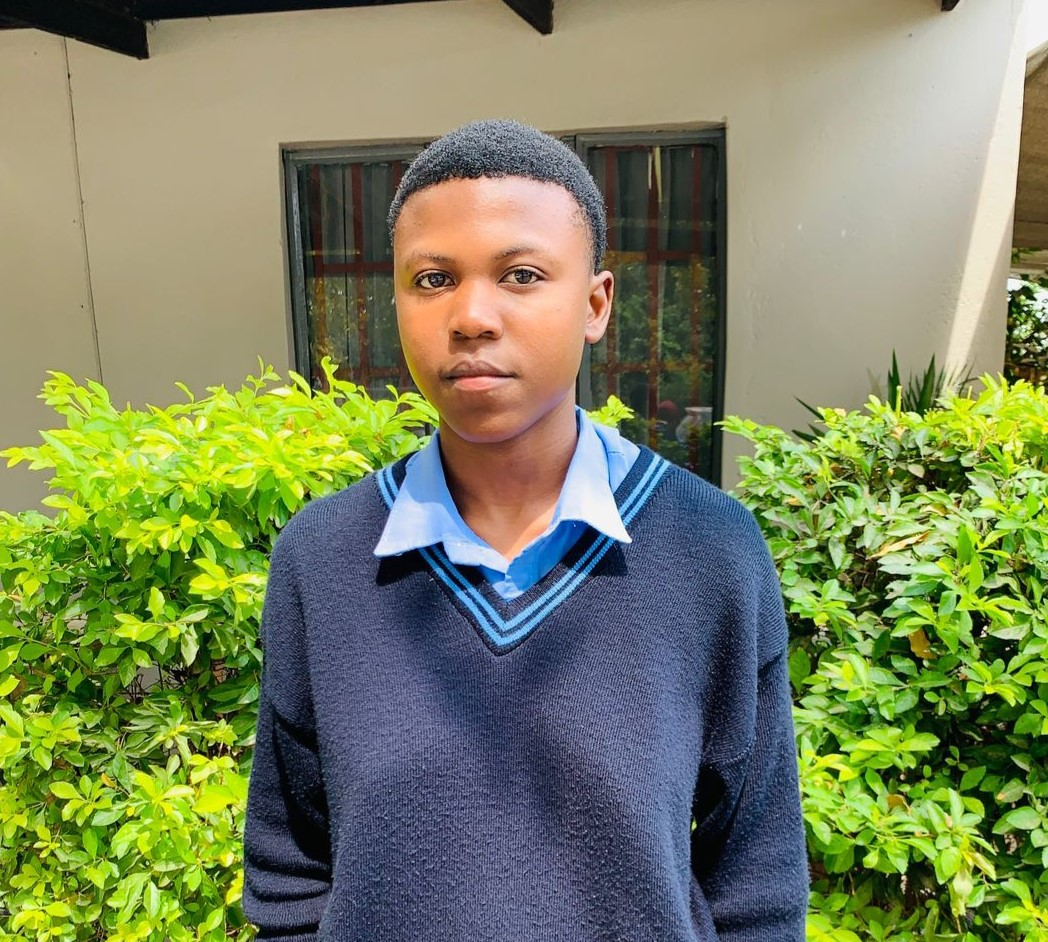
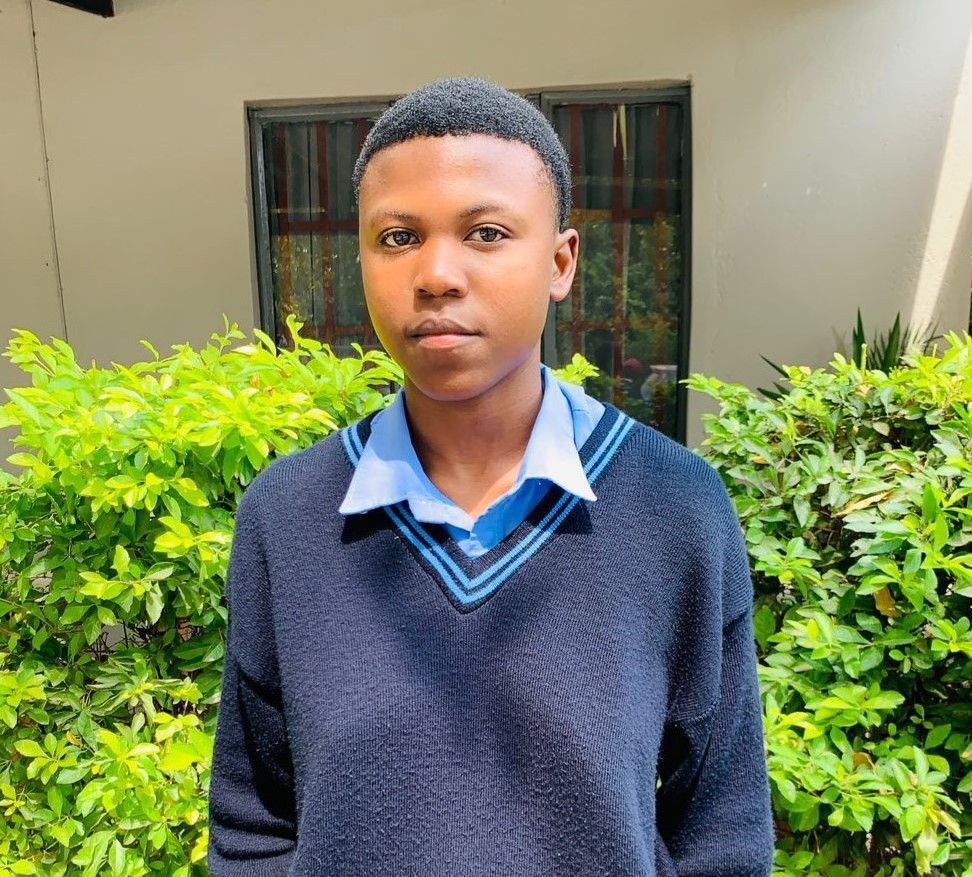
about us is responsive

diff --git a/css/about-us.css b/css/about-us.css
@@ -1,11 +1,14 @@
-
+body {
+  background-color: #f9f9f9;
+}
+  
+  
   .introduction-section {
     padding: 60px 20px;
-    background-color: #f9f9f9; 
     margin-top: 150px;
   }
   
-  .introduction-section .container {
+  .intro-container {
     max-width: 1200px;
     margin: 0 auto;
   }
@@ -30,15 +33,41 @@
   
   .intro-image {
     flex: 1;
+    display: flex;
+    justify-content: center;
+    align-items: center;
+    margin-right: -10px;
+
   }
   
   .intro-image img {
     max-width: 100%;
     border-radius: 10px;
+    height: 90%;
+    object-fit: cover;
   }
-  
+  .intro-text {
+    flex: 1;
+    padding-right: 5px;
+  }
+
+  @media (max-width: 1200px) {
+    .intro-text {
+      margin-right: 10px;
+    }
+    .introduction-section {
+      margin-top: 100px;
+    }
+  }
+
+  @media (max-width: 1047px) {
+    .introduction {
+      flex-direction: column;
+    }
+  }
+
   @media (max-width: 992px) {
-    .container {
+    .intro-container {
       flex-direction: column;
       text-align: center;
     }
@@ -56,26 +85,20 @@
 
   .team-section {
     padding: 60px 20px;
-    background-color: #f9f9f9;
   }
 
   .team-section .container {
     max-width: 1200px;
     margin: 0 auto;
   }
-  .introduction h2 {
-    margin-bottom: 60px;
-  }
+ 
    .team-section h2 {
     text-align: center;
     font-size: 2.5rem;
     color: #333;
     margin-bottom: 60px;
   }
-  .intro-text {
-    flex: 1;
-  }
-
+  
   .team-member-section {
     margin-bottom: 80px;
     display: block;
@@ -155,9 +178,7 @@
       font-size: 1rem;
     }
 
-    .team-member-details .bio {
-      font-size: 1rem;
-    }
+    
 
     .team-member-details blockquote {
       font-size: 1rem;

diff --git a/html/about-us.html b/html/about-us.html
@@ -62,7 +62,7 @@
     </nav>
 
     <section class="introduction-section">
-      <div class="container">
+      <div class="intro-container">
         <div class="introduction">          
           <div class="intro-text">
             <h2>About Study Sage</h2>
